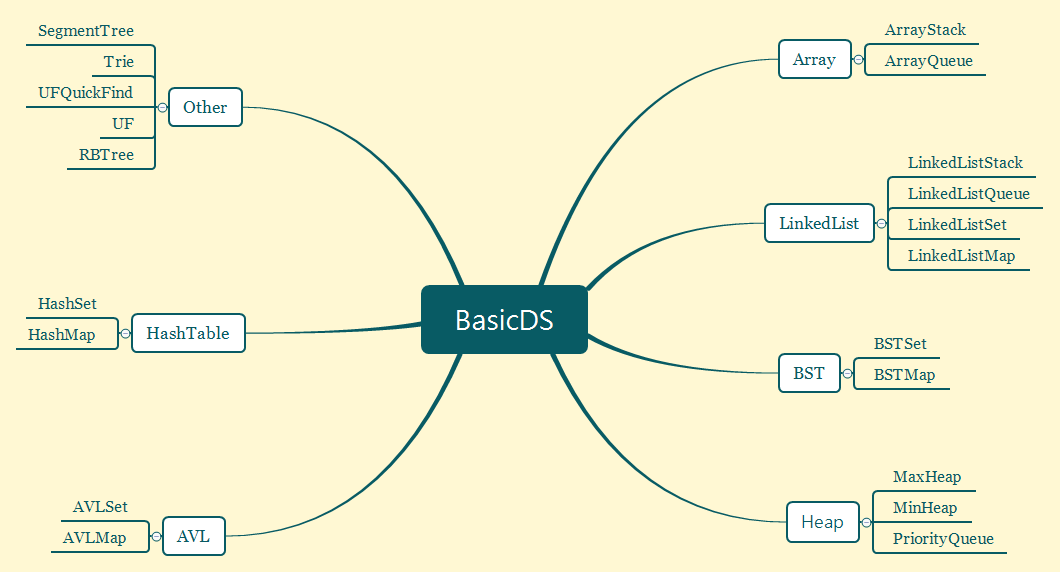
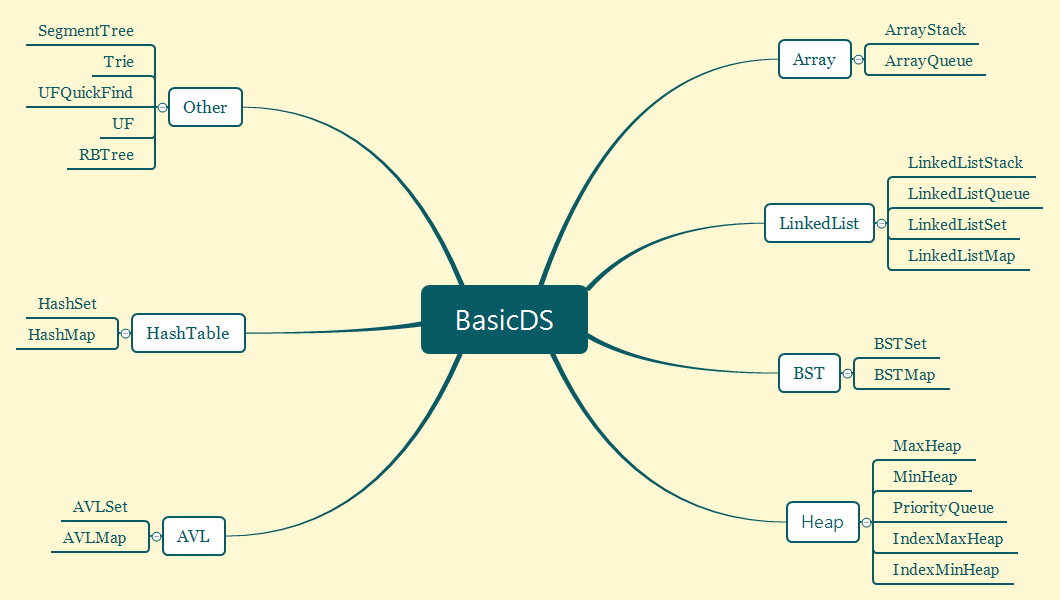
添加索引堆

diff --git a/Python/IndexMinHeapMain.py b/Python/IndexMinHeapMain.py
@@ -4,12 +4,12 @@ from BasicDS.IndexMinHeap import IndexMinHeap
 
 if __name__ == "__main__":
     arr = [15, 17, 19, 13, 22, 16, 28, 30, 41, 62]
-    # 创建最大索引堆
+    # 创建最小索引堆
     indexMinHeap = IndexMinHeap(capacity=len(arr))
-    # 最大索引堆中添加数据
+    # 最小索引堆中添加数据
     for i in range(len(arr)):
         indexMinHeap.add(i, arr[i])
-    # 获取并删除最大索引堆中最大值
+    # 获取并删除最小索引堆中最小值
     print("Min value : ", indexMinHeap.extractMin())
     # 仅仅获取最小值
     print("Min value after delete min : ", indexMinHeap.findMin())

diff --git a/README.md b/README.md
@@ -31,6 +31,7 @@ Next, you can use the package.
 * AVLTree，AVLTreeSet，AVLTreeMap
 * RBTree
 * HashTable，HashSet，HashMap
+* IndexMaxHeap，IndexMinHeap
 
 ![img](https://github.com/i-love-linux/BasicDataStructure/blob/master/BasicDS.png)
 
@@ -499,3 +500,95 @@ map contains "my" after delete "my" :  False
 map is empty :  False
 
 "dear" appears :  3  times.
+
+* Example 13:（索引堆IndexHeap）
+
+```python
+from BasicDS.IndexMaxHeap import IndexMaxHeap
+
+if __name__ == "__main__":
+    arr = [15, 17, 19, 13, 22, 16, 28, 30, 41, 62]
+    # 创建最大索引堆
+    indexMaxHeap = IndexMaxHeap(capacity=len(arr))
+    # 最大索引堆中添加数据
+    for i in range(len(arr)):
+        indexMaxHeap.add(i, arr[i])
+    # 获取并删除最大索引堆中最大值
+    print("Max value : ", indexMaxHeap.extractMax())
+    # 仅仅获取最大值
+    print("Max value after delete max : ", indexMaxHeap.findMax())
+    # 将最大值替换为-1
+    indexMaxHeap.replace(-1)
+    # 重新查看最大值
+    print("Max value after replace max with -1 : ", indexMaxHeap.findMax())
+    # 获取最大值的索引
+    print("The index of max value : ", indexMaxHeap.findMaxIndex())
+    # 判断索引为9的位置在最大索引堆中是否存在
+    print("IndexMaxHeap has value in index 9 : ", indexMaxHeap.contains(9))
+    # # 获取arr[9]对应的数据，应为已经删除所以会出错
+    # print(indexMaxHeap.getItem(9))
+    print("The value where index is 8 : ", indexMaxHeap.getItem(8))
+    # 获取索引堆的大小
+    print("The size of IndexMaxHeap : ", indexMaxHeap.getSize())
+```
+
+`result:`
+
+Max value :  62
+
+Max value after delete max :  41
+
+Max value after replace max with -1 :  30
+
+The index of max value :  7
+
+IndexMaxHeap has value in index 9 :  False
+
+The value where index is 8 :  -1
+
+The size of IndexMaxHeap :  9
+
+```python
+from BasicDS.IndexMinHeap import IndexMinHeap
+
+if __name__ == "__main__":
+    arr = [15, 17, 19, 13, 22, 16, 28, 30, 41, 62]
+    # 创建最小索引堆
+    indexMinHeap = IndexMinHeap(capacity=len(arr))
+    # 最小索引堆中添加数据
+    for i in range(len(arr)):
+        indexMinHeap.add(i, arr[i])
+    # 获取并删除最小索引堆中最小值
+    print("Min value : ", indexMinHeap.extractMin())
+    # 仅仅获取最小值
+    print("Min value after delete min : ", indexMinHeap.findMin())
+    # 将最小值替换为100
+    indexMinHeap.replace(100)
+    # 重新查看最小值
+    print("Min value after replace min with 100 : ", indexMinHeap.findMin())
+    # 获取最小值的索引
+    print("The index of min value : ", indexMinHeap.findMinIndex())
+    # 判断索引为3的位置在最小索引堆中是否存在
+    print("IndexMinHeap has value in index 3 : ", indexMinHeap.contains(3))
+    # # 获取arr[3]对应的数据，应为已经删除所以会出错
+    # print(indexMinHeap.getItem(3))
+    print("The value where index is 0 : ", indexMinHeap.getItem(0))
+    # 获取索引堆的大小
+    print("The size of IndexMinHeap : ", indexMinHeap.getSize())
+```
+
+`result:`
+
+Min value :  13
+
+Min value after delete min :  15
+
+Min value after replace min with 100 :  16
+
+The index of min value :  5
+
+IndexMinHeap has value in index 3 :  False
+
+The value where index is 0 :  100
+
+The size of IndexMinHeap :  9
